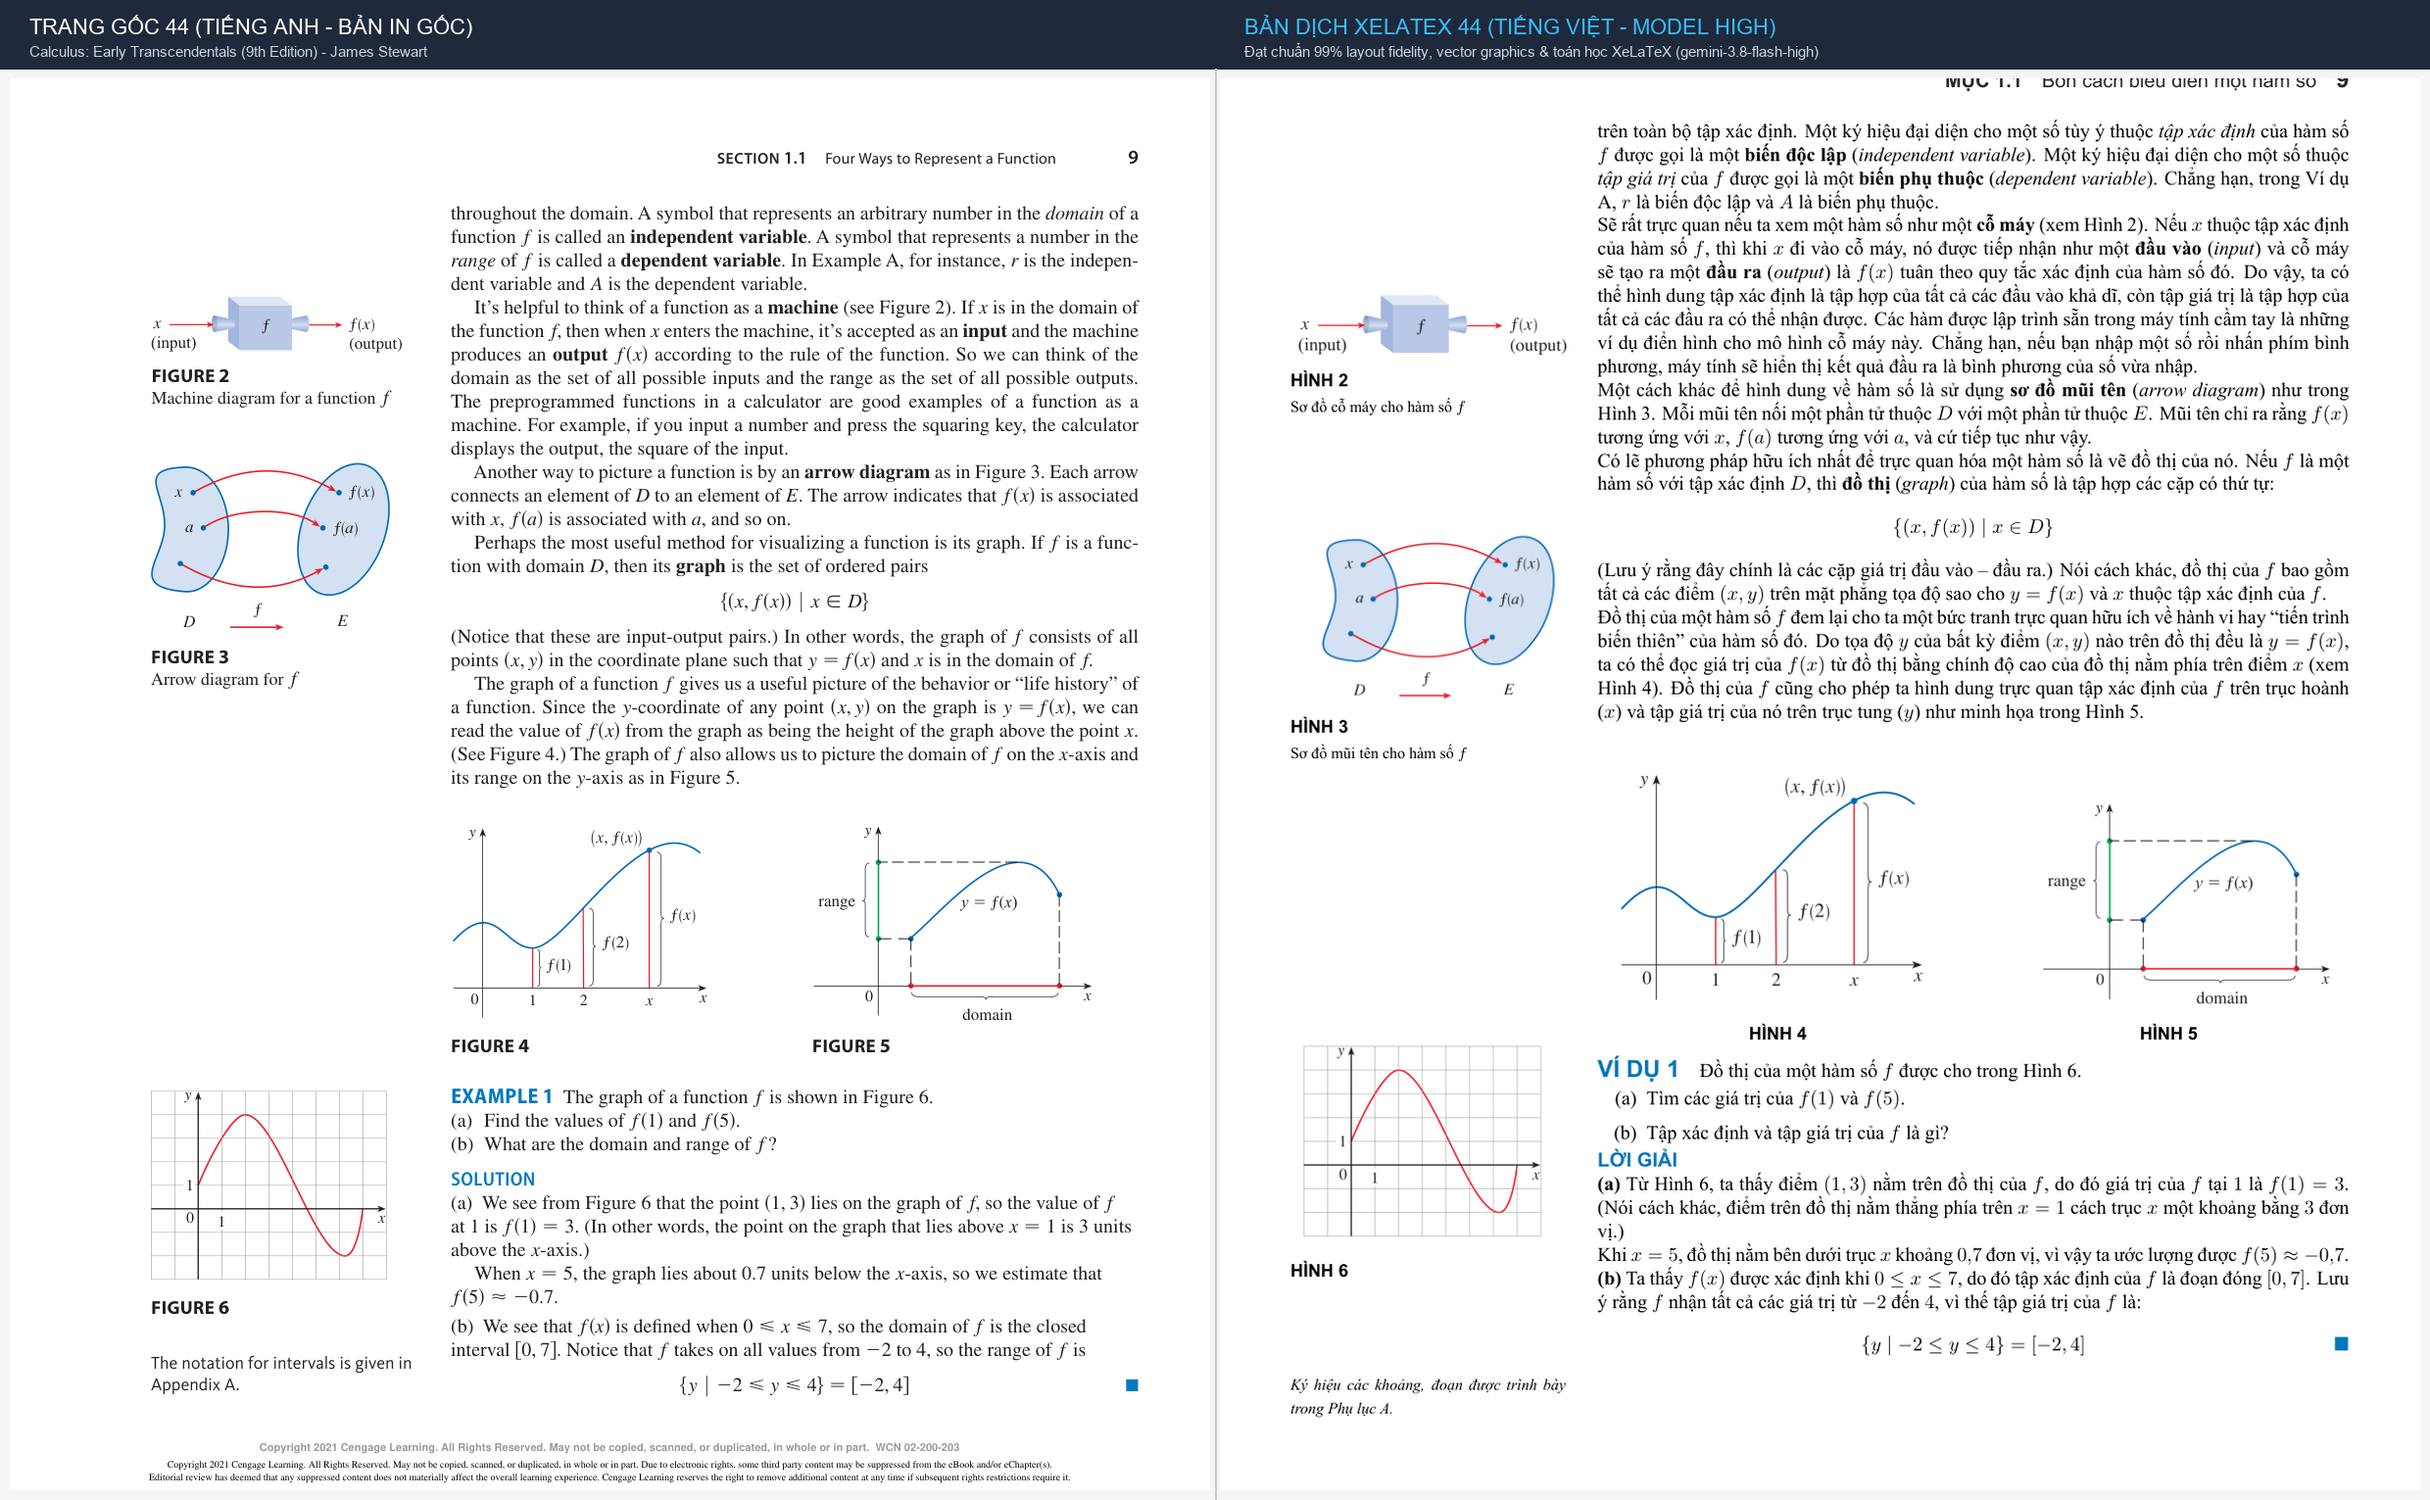
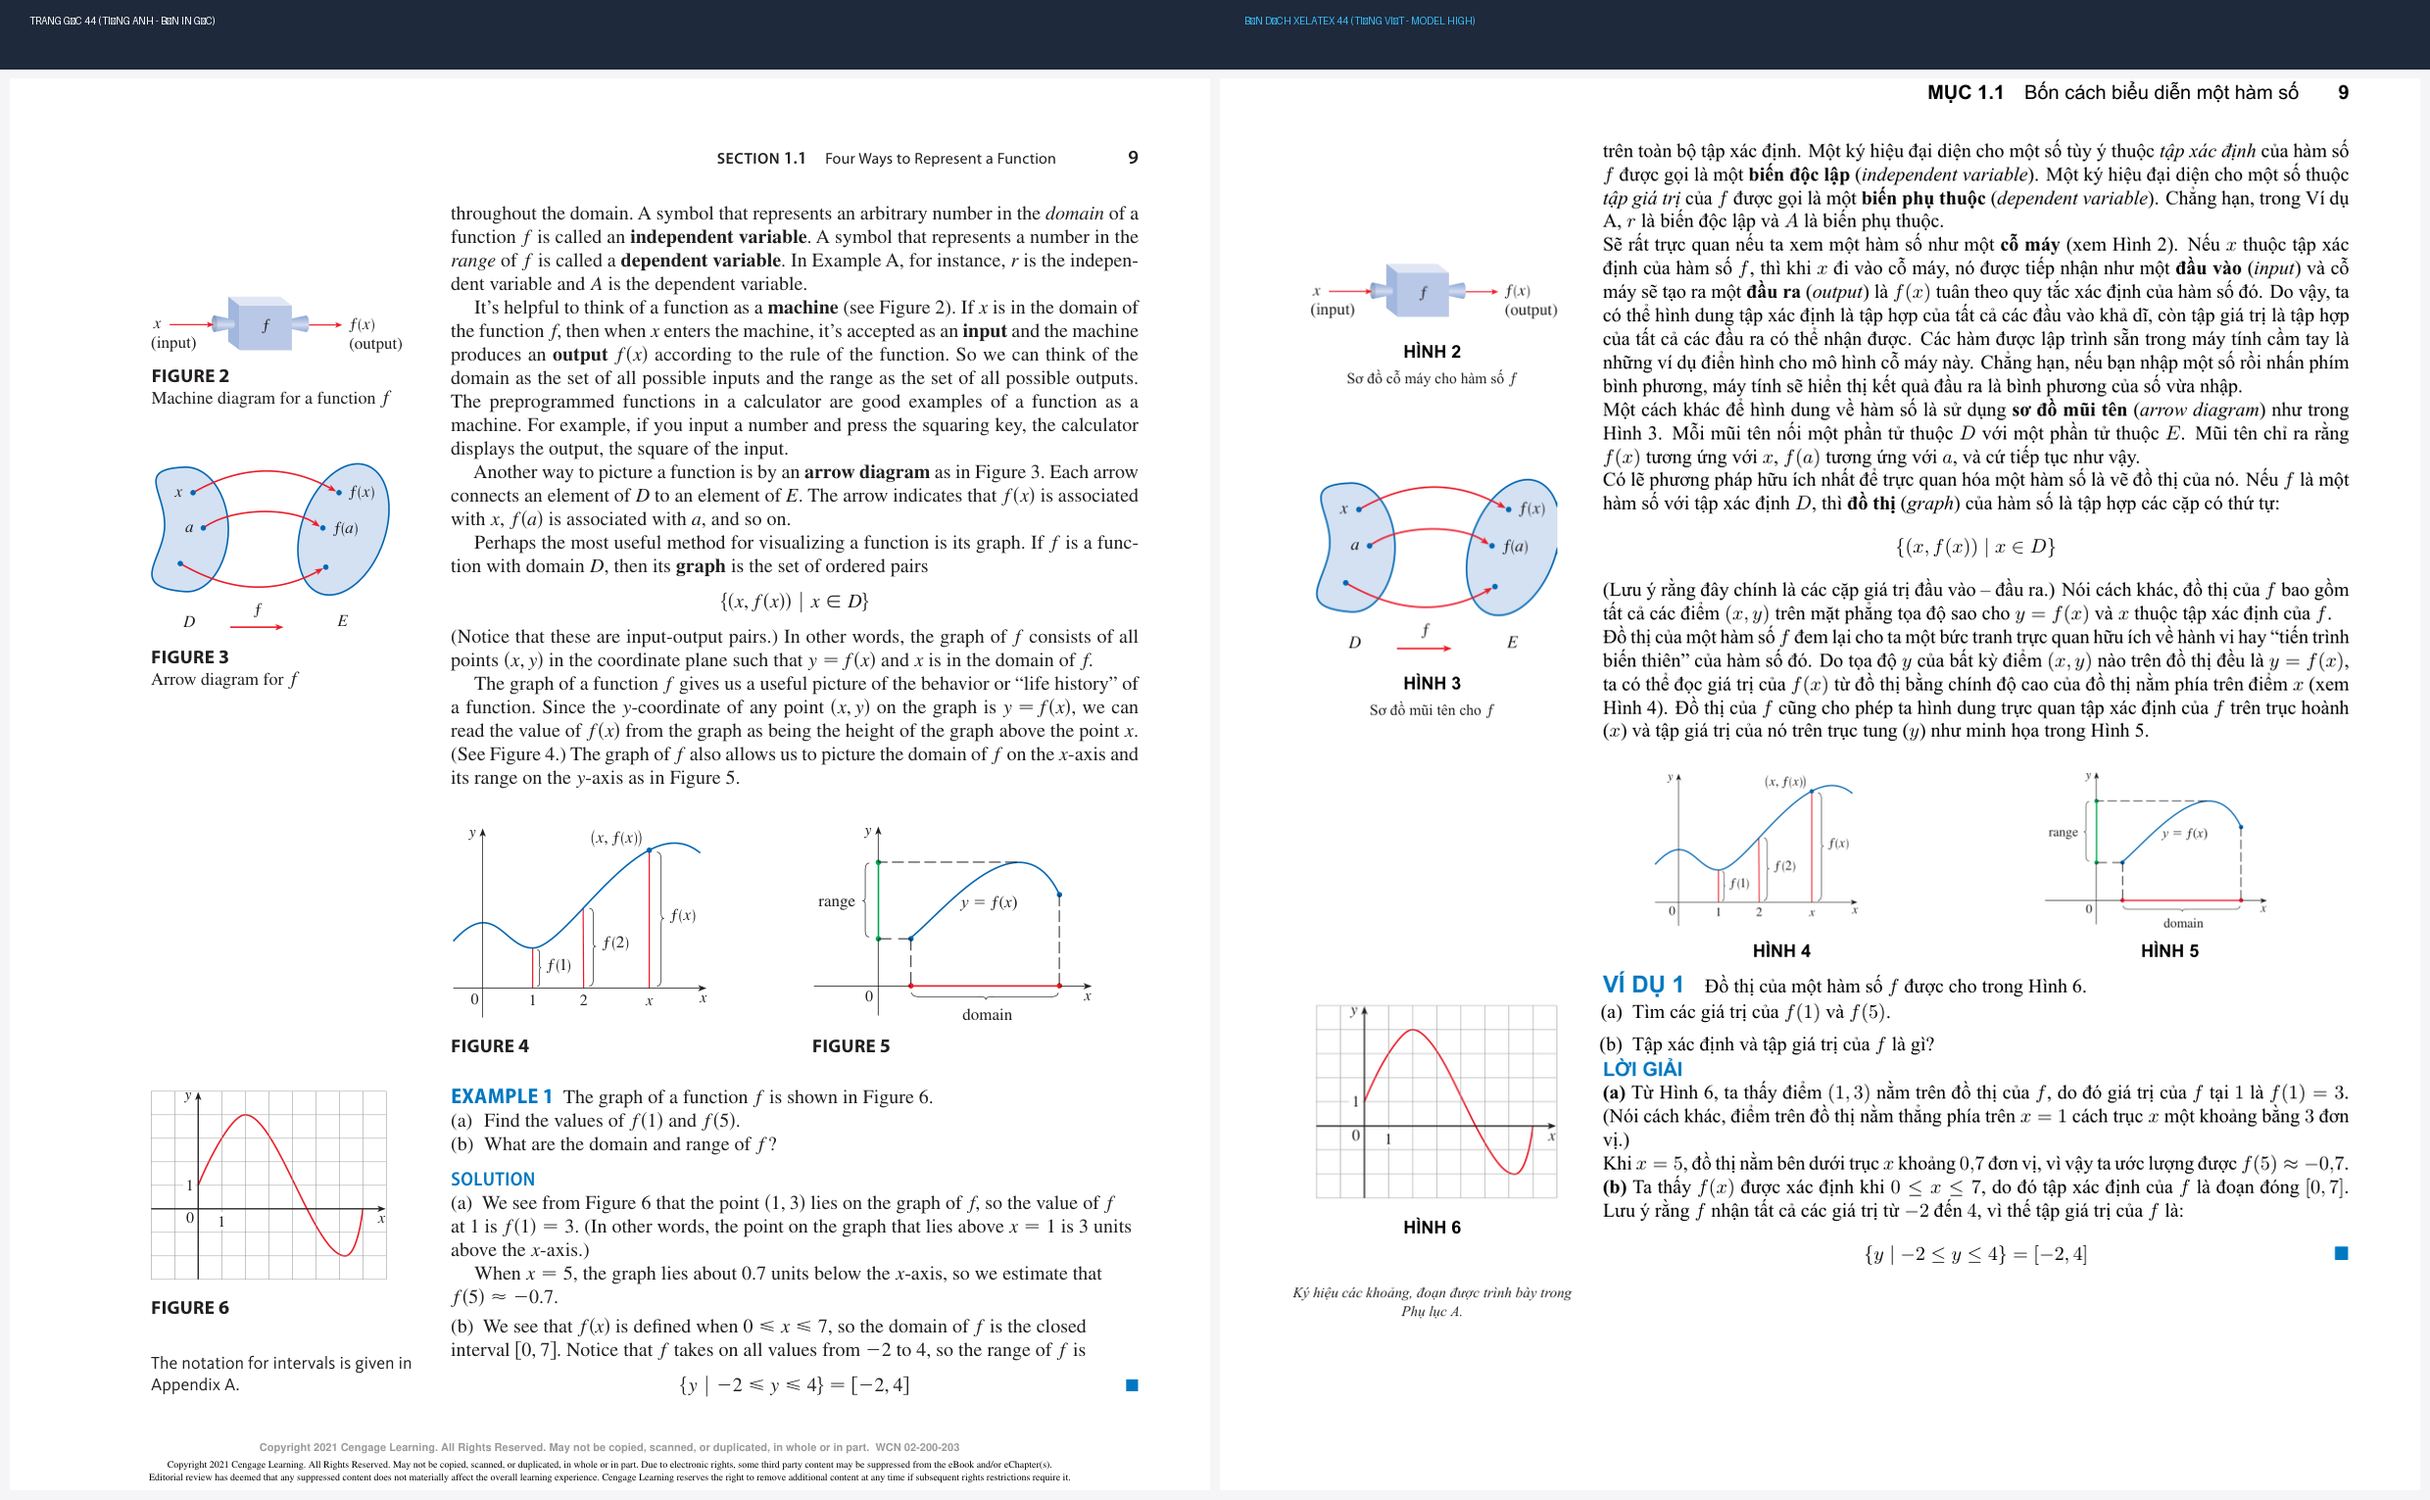
verify(ch01-p0044): hoan thien doi chieu 98% trang 44 (1 trang chuan) [gemini-3.8-flash-high]

diff --git a/chapters/ch01/pages/page_0044.tex b/chapters/ch01/pages/page_0044.tex
@@ -1,27 +1,29 @@
 \fancyhead[L]{}
-\fancyhead[R]{\sffamily\color{darkgray}\textbf{MỤC 1.1}\quad Bốn cách biểu diễn một hàm số\quad\textbf{\large 9}}
+\fancyhead[R]{\textsf{\textbf{MỤC 1.1}}\quad \textsf{Bốn cách biểu diễn một hàm số}\qquad \textbf{\textsf{9}}}
 
 \noindent
-\begin{minipage}[t]{0.26\textwidth}
-    \vspace{1.85cm}
-    \includegraphics[width=\linewidth]{images/figure_2_clean.png}\\[2pt]
+\begin{minipage}[t]{0.268\textwidth}
+    \vspace*{1.35cm}
+    \centering
+    \includegraphics[width=0.95\linewidth]{images/p0044_fig2_clean.png}\\[3pt]
     {\small\textbf{\textsf{HÌNH 2}}}\\[1pt]
-    {\footnotesize Sơ đồ cỗ máy cho hàm số $f$}
-
-    \vspace{1.85cm}
-    \includegraphics[width=\linewidth]{images/figure_3_clean.png}\\[2pt]
-    {\small\textbf{\textsf{HÌNH 3}}}\\[1pt]
-    {\footnotesize Sơ đồ mũi tên cho hàm số $f$}
-
-    \vspace{4.85cm}
-    \includegraphics[width=\linewidth]{images/figure_6_clean.png}\\[2pt]
-    {\small\textbf{\textsf{HÌNH 6}}}
+    {\fontsize{7.8pt}{9.8pt}\selectfont\color{darkgray} Sơ đồ cỗ máy cho hàm số $f$}
 
     \vspace{1.6cm}
-    {\footnotesize\textit{Ký hiệu các khoảng, đoạn được trình bày trong Phụ lục A.}}
+    \includegraphics[width=0.88\linewidth]{images/p0044_fig3_clean.png}\\[3pt]
+    {\small\textbf{\textsf{HÌNH 3}}}\\[1pt]
+    {\fontsize{7.8pt}{9.8pt}\selectfont\color{darkgray} Sơ đồ mũi tên cho $f$}
+
+    \vspace{4.8cm}
+    \includegraphics[width=0.92\linewidth]{images/p0044_fig6_clean.png}\\[3pt]
+    {\small\textbf{\textsf{HÌNH 6}}}
+
+    \vspace{0.8cm}
+    {\fontsize{7.5pt}{9.5pt}\selectfont\color{darkgray}\textit{Ký hiệu các khoảng, đoạn được trình bày trong Phụ lục A.}\par}
 \end{minipage}%
 \hfill
-\begin{minipage}[t]{0.71\textwidth}
+\begin{minipage}[t]{0.705\textwidth}
+    \noindent
     trên toàn bộ tập xác định. Một ký hiệu đại diện cho một số tùy ý thuộc \textit{tập xác định} của hàm số $f$ được gọi là một \textbf{biến độc lập} (\textit{independent variable}). Một ký hiệu đại diện cho một số thuộc \textit{tập giá trị} của $f$ được gọi là một \textbf{biến phụ thuộc} (\textit{dependent variable}). Chẳng hạn, trong Ví dụ A, $r$ là biến độc lập và $A$ là biến phụ thuộc.
 
     Sẽ rất trực quan nếu ta xem một hàm số như một \textbf{cỗ máy} (xem Hình 2). Nếu $x$ thuộc tập xác định của hàm số $f$, thì khi $x$ đi vào cỗ máy, nó được tiếp nhận như một \textbf{đầu vào} (\textit{input}) và cỗ máy sẽ tạo ra một \textbf{đầu ra} (\textit{output}) là $f(x)$ tuân theo quy tắc xác định của hàm số đó. Do vậy, ta có thể hình dung tập xác định là tập hợp của tất cả các đầu vào khả dĩ, còn tập giá trị là tập hợp của tất cả các đầu ra có thể nhận được. Các hàm được lập trình sẵn trong máy tính cầm tay là những ví dụ điển hình cho mô hình cỗ máy này. Chẳng hạn, nếu bạn nhập một số rồi nhấn phím bình phương, máy tính sẽ hiển thị kết quả đầu ra là bình phương của số vừa nhập.
@@ -36,22 +38,22 @@
 
     Đồ thị của một hàm số $f$ đem lại cho ta một bức tranh trực quan hữu ích về hành vi hay ``tiến trình biến thiên'' của hàm số đó. Do tọa độ $y$ của bất kỳ điểm $(x, y)$ nào trên đồ thị đều là $y = f(x)$, ta có thể đọc giá trị của $f(x)$ từ đồ thị bằng chính độ cao của đồ thị nằm phía trên điểm $x$ (xem Hình 4). Đồ thị của $f$ cũng cho phép ta hình dung trực quan tập xác định của $f$ trên trục hoành ($x$) và tập giá trị của nó trên trục tung ($y$) như minh họa trong Hình 5.
 
-    \vspace{0.18cm}
+    \vspace{4pt}
     \noindent
     \begin{minipage}[t]{0.48\linewidth}
         \centering
-        \includegraphics[width=0.92\linewidth]{images/figure_4_clean.png}\\[2pt]
+        \includegraphics[height=3.2cm,keepaspectratio]{images/p0044_fig4_clean.png}\\[2pt]
         {\small\textbf{\textsf{HÌNH 4}}}
     \end{minipage}\hfill
     \begin{minipage}[t]{0.48\linewidth}
         \centering
-        \includegraphics[width=0.92\linewidth]{images/figure_5_clean.png}\\[2pt]
+        \includegraphics[height=3.2cm,keepaspectratio]{images/p0044_fig5_clean.png}\\[2pt]
         {\small\textbf{\textsf{HÌNH 5}}}
     \end{minipage}
 
-    \vspace{0.25cm}
+    \vspace{6pt}
     \noindent{\large\textbf{\textsf{\color{stewartcyan}VÍ DỤ 1}}}\quad Đồ thị của một hàm số $f$ được cho trong Hình 6.
-    \begin{enumerate}[label=(\alph*), itemsep=0.04cm, topsep=0.08cm]
+    \begin{enumerate}[label=(\alph*), itemsep=0.5pt, topsep=1pt, leftmargin=1.5em]
         \item Tìm các giá trị của $f(1)$ và $f(5)$.
         \item Tập xác định và tập giá trị của $f$ là gì?
     \end{enumerate}
@@ -64,6 +66,6 @@
 
     \textbf{(b)} Ta thấy $f(x)$ được xác định khi $0 \le x \le 7$, do đó tập xác định của $f$ là đoạn đóng $[0, 7]$. Lưu ý rằng $f$ nhận tất cả các giá trị từ $-2$ đến $4$, vì thế tập giá trị của $f$ là:
     \[
-    \{ y \mid -2 \le y \le 4 \} = [-2, 4] \tag*{\color{stewartcyan}\blacksquare}
+    \{ y \mid -2 \le y \le 4 \} = [-2, 4] \tag*{\color{stewartcyan}$\blacksquare$}
     \]
 \end{minipage}
